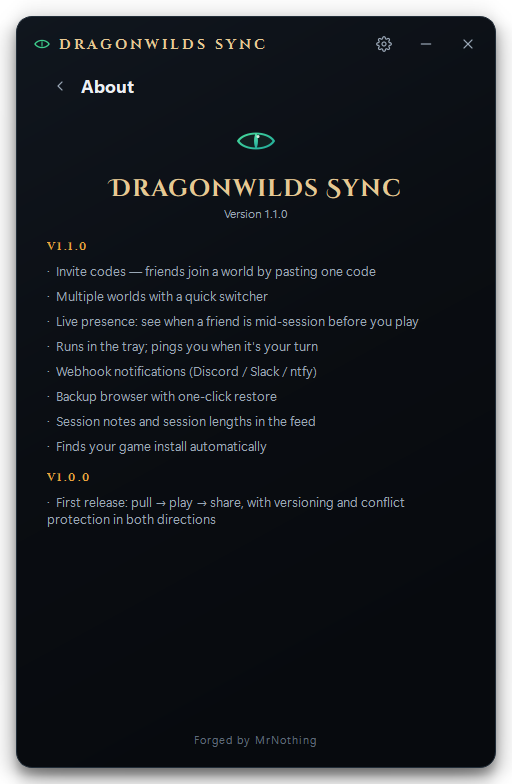
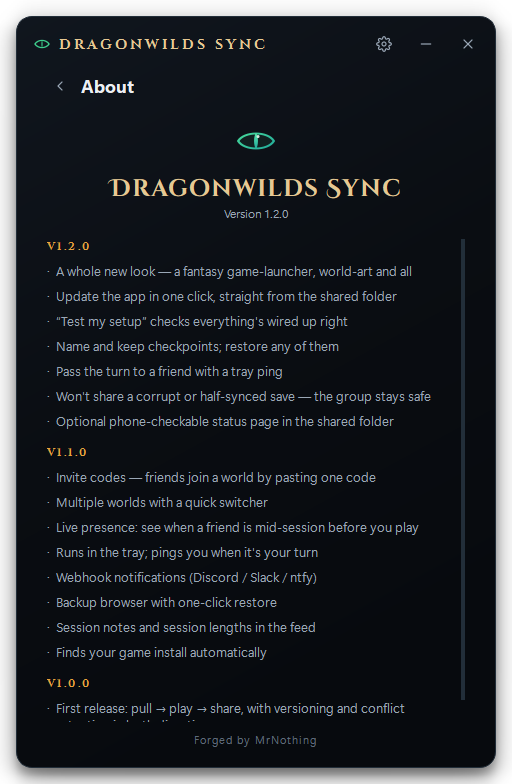
Docs for 1.2.0: changelog, README (updates + extras), DESIGN redesign notes, NOTES
Re-rendered all 20 screenshot states at v1.2.0; installer version bumped.

diff --git a/NOTES_FOR_MANU.md b/NOTES_FOR_MANU.md
@@ -1,3 +1,73 @@
+# Notes for Manu
+
+## v1.2 — the redesign + "everything a friend group could want" pass
+
+**Built on your feedback: the UI looked AI-made, and you wanted more features.**
+Both addressed. `dist\DragonwildsSync.exe` is now **v1.2.0** (44.7 MB, launches
+clean, bundled fonts confirmed loading inside the package). **87 tests green**
+(was 57). Sync core still frozen — untouched except the two additive helpers
+from v1.1. Git history is incremental across the whole session.
+
+### The new look (Game-launcher × Arcane grimoire, as you asked)
+- Every world gets a **procedurally-painted hero banner** — a moonlit,
+  ember-flecked landscape seeded from the world's name and tinted by its own
+  colour, so each world looks distinct. No image files shipped; it's all
+  painted (`app/ui/banner.py`).
+- World name in **Cinzel Decorative**, headings/wordmark in **Cinzel**, session
+  notes in **EB Garamond** italic (all SIL OFL, bundled in the exe). Ember-gold
+  accent now rides alongside the emerald. **PLAY** breathes at rest and flares
+  on hover.
+- Onboarding welcome + About restyled to match. See `docs/screenshots/` —
+  re-rendered, 20 states.
+
+### New features (you said "all of them, and more")
+Tier-1 asks, all shipped:
+- **Auto-update through the shared folder.** You (host) hit Settings → *Publish
+  this version to friends*; it copies the running exe into the folder's `_app`
+  dir with a version manifest. Everyone else gets an **Update bar** and swaps
+  in place on click. Self-swap uses a wait-then-replace batch script (Windows
+  won't overwrite a running exe). Only works from the packaged exe, not source.
+- **"Test my setup"** (Settings) — checklist: save folder, world save, shared
+  folder writable, cloud drive, sync state, game launch.
+- **Save safety** — a corrupt/zero-byte or still-downloading save is never
+  shared or pulled over. This lives in the controller *around* the frozen sync
+  core, so it can't affect protocol correctness.
+- **Pass the turn** — pick a friend, they get a tray ping ("it's your turn").
+
+More, added on top:
+- **Named checkpoints** + delete, beside the auto-backups (Backups page).
+- **Phone status page** — optional `status.html` in the shared folder (toggle
+  in Settings), checkable from a phone's Drive app. Zero backend.
+- **Richer conflict prompt** — now shows both saves' sizes and save-times.
+
+### Judgment calls worth a glance
+1. **Auto-update trust model:** anyone who can write the shared folder can
+   publish an update that others will run. That's the same trust you already
+   extend to everyone in a shared-save group, but worth knowing. If you want,
+   I can add a "only accept updates published by <you>" pin — say the word.
+2. **Update self-swap** is the standard Windows trick (stage + batch script
+   that waits for exit, copies, relaunches). It's the one bit that can't be
+   unit-tested end-to-end; I tested the pieces (version compare, publish/detect,
+   script generation) and the app launch, but **please do one real update
+   dry-run** between two machines before relying on it with friends.
+3. **Fonts add ~1 MB** and are bundled + confirmed loading in the packaged exe.
+4. **Save-safety gate skips the push** on a bad file rather than asking — the
+   safe default is "don't poison the group; keep the last good save."
+5. Status page is **off unless the toggle is on**? No — it defaults **on**
+   (`publish_status_page: true`). It only writes a small HTML file; flip it off
+   in Settings if you'd rather not.
+
+### Deferred (still), and honestly why
+- **Real .sav parsing** for in-game stats — still a rainy-day spike, same risks
+  as before (undocumented binary, breaks on game updates, must never write).
+- **World branching** — design sketch remains in the Tier C notes below.
+- **Discord Rich Presence** — needs a discord IPC dependency; the webhook
+  already covers "notify the group," so I left it out to avoid the dependency.
+- **Launch sound / animations** — would need QtMultimedia; skipped to keep the
+  exe lean. The PLAY breathing glow scratches some of that itch.
+
+---
+
 # Notes for Manu — overnight build, 2026-07-08 → 09
 
 ## Morning summary

diff --git a/DESIGN.md b/DESIGN.md
@@ -1,6 +1,7 @@
 # Design rationale
 
-*(v1.1 additions at the bottom; the v1.0 rationale below still holds.)*
+*(v1.2 redesign notes at the very bottom; v1.1 additions below that; the v1.0
+rationale still holds underneath.)*
 
 ## Stack: Python + PySide6 (Qt), PyInstaller
 
@@ -108,3 +109,38 @@ to read like a campaign log, not a sync ledger.
 | ![Join watch](docs/screenshots/05_onboarding_join_watch.png) | ![Up to date](docs/screenshots/06_main_up_to_date.png) |
 | ![Friend playing](docs/screenshots/08_main_friend_playing.png) | ![Invite](docs/screenshots/12_invite.png) |
 | ![Backups](docs/screenshots/13_backups.png) | ![Conflict](docs/screenshots/17_conflict.png) |
+
+## v1.2 — the "wow" redesign + feature depth
+
+**Brief:** the v1.1 UI was clean but read as "AI-made / generic dark
+dashboard." The fix was atmosphere + a signature moment + character type,
+landing on a *dark-fantasy game launcher* (game-launcher structure carrying
+grimoire soul), plus the feature depth a friend group actually wants.
+
+What moved the needle, in order of impact:
+
+1. **A per-world hero banner.** The single biggest change: the top of the
+   screen is now a moody, procedurally-painted landscape (`banner.py`) —
+   moonlit ridge silhouettes, a soft halo, drifting embers — seeded from the
+   world name and tinted by the world's colour, so every world is visually
+   its own place. Painted with QPainter, zero image assets, animates gently.
+   This is what flips it from "utility" to "companion to a game."
+2. **Real display type.** Bundled Cinzel (roman caps — wordmark, headings,
+   the all-caps status line), Cinzel Decorative (the big world name), and EB
+   Garamond (italic session notes). Display-serif + clean-sans-body is the
+   disciplined combination that reads premium without tipping into costume.
+3. **An ember-gold accent** alongside the emerald: emerald stays the "go /
+   play" colour, gold carries identity and flourish (wordmark, section
+   labels, world title, update bar). Two purposeful colours, not a rainbow.
+4. **A showpiece PLAY button** that breathes at rest and flares on hover, and
+   gradient chrome with a vignette for depth.
+
+Everything stayed inside PySide6/QPainter — no new heavyweight deps, exe grew
+by ~1 MB (the fonts).
+
+**Feature depth** was built as new core modules (`update`, `preflight`,
+`health`, `statuspage`, `semver`, plus `presence`/`backups` extensions), each
+unit-tested, with all save-integrity-adjacent logic (health gating, sync-state
+checks, richer conflict detail) living in the controller *around* the frozen
+sync core — never inside it. That boundary is why 30 features' worth of change
+added zero risk to the one thing that must never regress.

diff --git a/README.md b/README.md
@@ -2,7 +2,9 @@
 
 **One world, shared between friends.** Take turns playing the same
 *RuneScape: Dragonwilds* world without renting a server — whoever plays next
-always picks up the newest save, automatically.
+always picks up the newest save, automatically. A dark-fantasy launcher for
+your group's shared world, with invites, presence, backups, and one-click
+updates — all through your own cloud drive, no server anywhere.
 
 ![Main screen](docs/screenshots/06_main_up_to_date.png)
 
@@ -55,6 +57,29 @@ missing.
 **House rule:** one person plays at a time. The app warns loudly (before
 *and* after the fact) if two sessions collide, but the polite fix is a
 message in the group chat.
+
+## Keeping everyone on the latest version
+
+No store, no manual re-sending of the exe:
+
+1. Build the new `DragonwildsSync.exe` and run it yourself to test.
+2. Settings → **Publish this version to friends**. The app copies itself into
+   the shared folder's `_app` subfolder with a version manifest.
+3. Everyone else's app notices the newer build (it's already syncing to their
+   PC), shows an **Update** bar, and swaps itself in place on confirm — worlds
+   and settings kept.
+
+## Extras
+
+- **Test my setup** (Settings) — a checklist that verifies folders, cloud
+  sync, and game launch so setup problems are obvious, not mysterious.
+- **Checkpoints** (world menu → Backups) — name a snapshot before something
+  risky; restore it any time. Automatic backups are taken whenever a save
+  would be overwritten.
+- **Pass the turn** — hand a specific friend the world; they get a tray ping.
+- **Phone status page** — with the toggle on, a `status.html` is written into
+  the shared folder; open it from your phone's cloud-drive app to see who's
+  playing without launching anything.
 
 ## For the maintainer: building from source
 

diff --git a/CHANGELOG.md b/CHANGELOG.md
@@ -1,5 +1,29 @@
 # Changelog
 
+## 1.2.0 — 2026-07-09
+
+**A new look, and a lot less friction.**
+
+- Complete visual redesign into a dark-fantasy game launcher: a procedurally
+  painted, per-world hero banner (moonlit ridges + drifting embers, tinted
+  per world), the world name set in Cinzel Decorative, an ember-gold accent
+  alongside the emerald, and a showpiece PLAY button that breathes at rest.
+  Bundled Cinzel / EB Garamond display type.
+- **One-click auto-update through the shared folder.** The host publishes a
+  build (Settings → Publish this version); everyone else gets an update bar
+  and updates in place. No store, no server, no manual exe-swapping.
+- **“Test my setup”** — a friendly checklist that catches setup snags
+  (folders, cloud sync, game launch) before they bite.
+- **Named checkpoints** — snapshot your save before something risky and
+  restore it any time, alongside the automatic overwrite-backups.
+- **Pass the turn** — hand a specific friend the world; they get a tray ping.
+- **Save safety** — a corrupt or still-downloading save is never shared, so
+  one bad file can't poison the group.
+- Optional phone-checkable `status.html` written into the shared folder.
+- Richer conflict prompt showing both saves' sizes and times.
+
+The sync protocol is unchanged and fully compatible with 1.0 and 1.1.
+
 ## 1.1.0 — 2026-07-09
 
 **Joining is now one code.** A friend pastes an invite code, clicks the share
